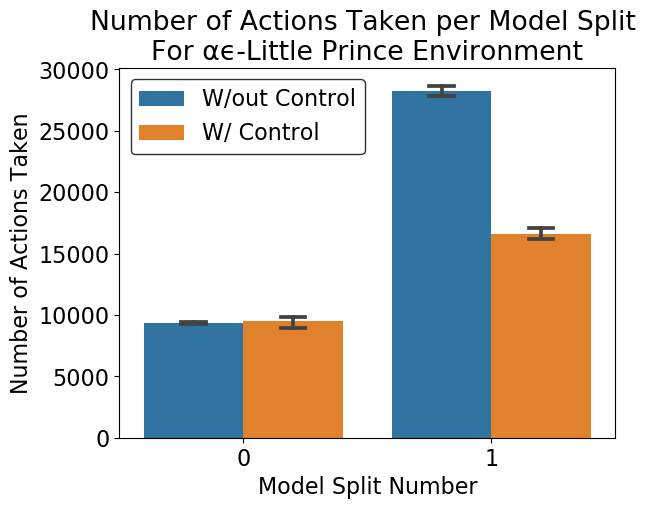
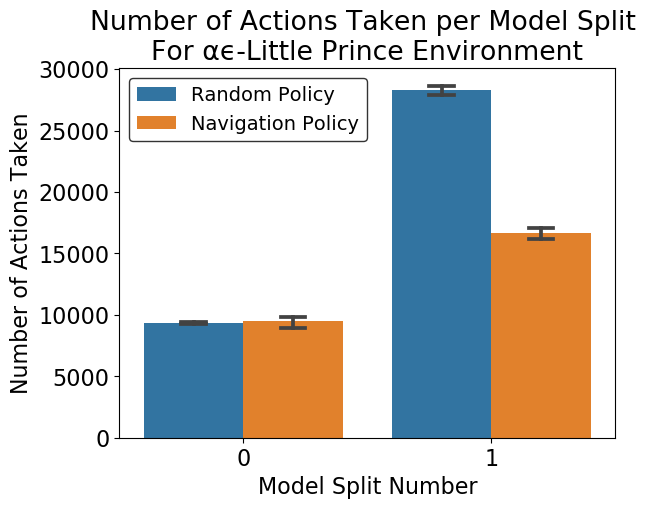
Modified the graphs for Test 2

Changed region(s): [[0.1835, 0.1473, 0.581, 0.3242], [0.0612, 0.1179, 0.1835, 0.1768], [0.6422, 0.1768, 0.7034, 0.2063]]

diff --git a/generateGraphs.py b/generateGraphs.py
@@ -193,12 +193,28 @@ def generateGraphTest2():
                     if model_num == finalModelNum:
                         data.append([model_num, iteration_num])
 
+
         v1Data = np.array(v1Data)
         v2Data = np.array(v2Data)
         v1Data_average = np.mean(v1Data, axis=0)
         v2Data_average = np.mean(v2Data, axis=0)
         v1Data_stdDev = np.std(v1Data, axis=0)
         v2Data_stdDev = np.std(v2Data, axis=0)
+
+        # import pdb; pdb.set_trace()
+        print("-----")
+        print(env_num)
+        v1_sum = np.sum(v1Data, axis=0)
+        v2_sum = np.sum(v2Data, axis=0)
+        print(v1_sum)
+        print(v2_sum)
+        v1_avg = v1_sum / 10
+        v2_avg = v2_sum / 10
+        print(v1_avg)
+        print(v2_avg)
+        print(v2_avg[1] / v1_avg[1])
+
+
 
         xData = []
         yData = []
@@ -214,7 +230,7 @@ def generateGraphTest2():
         else:
             xData = np.concatenate((v1Data[:,0], v2Data[:,0]))
             yData = np.concatenate((v1Data[:,1], v2Data[:,1]))
-            groupings = np.concatenate(((np.full(np.shape(v1Data[:,0]), "Without Control")), np.full(np.shape(v2Data[:,0]), "With Control")))
+            groupings = np.concatenate(((np.full(np.shape(v1Data[:,0]), "Random Policy")), np.full(np.shape(v2Data[:,0]), "Navigation Policy")))
 
 
         plt.rcParams.update({'font.size': 16})
@@ -230,7 +246,7 @@ def generateGraphTest2():
         xlabels = ['{:,d}'.format(x) for x in ax.get_xticks()]
         ax.set_xticklabels(xlabels)
         ax.tick_params(axis='x')
-        ldg = plt.legend()
+        ldg = plt.legend(fontsize=14)
         ldg.get_frame().set_edgecolor('black')
 
         # plt.show()
@@ -337,11 +353,11 @@ def generateGraphTest2_2(useFirstPoint,genAbsoluteError, environmentNum):
     # plt.scatter(v1Data_average[:,0], v1Data_average[:,1], label="Collins")
     if v1Data.size > 0: # Check to make sure at least one trial was successful
         print(v1Data_average.size)
-        plt.scatter(v1Data_average[:,0], v1Data_average[:,1],label="Without Control",c=colors[0])
+        plt.scatter(v1Data_average[:,0], v1Data_average[:,1],label="Random Policy",c=colors[0])
     
     # plt.scatter(v2Data_average[:,0], v2Data_average[:,1], label="BUDD")
     if v2Data.size > 0:
-        plt.scatter(v2Data_average[:,0], v2Data_average[:,1],label="With Control",c=colors[1])
+        plt.scatter(v2Data_average[:,0], v2Data_average[:,1],label="Navigation Policy",c=colors[1])
     for row_num in range(len(model_splits)):
         row = model_splits[row_num]
         color = ''
@@ -349,11 +365,11 @@ def generateGraphTest2_2(useFirstPoint,genAbsoluteError, environmentNum):
         linestyle = ''
         if row_num == 0:
             color = colors[0]
-            grouping = "Without Control"
+            grouping = "Random Policy"
             linestyle = "-"
         else:
             color = colors[1]
-            grouping = "With Control"
+            grouping = "Navigation Policy"
             linestyle = "--"
         for num in range(len(row)):
             split = model_splits[row_num][num]
@@ -569,6 +585,16 @@ def getModelGraph(env_num, SDE_Set, A_S, transitionProbs, filename):
                         rank = "sink"
                     line = '  { rank=' + rank + '; ' + '"' + str(sde_idx) + '"; }'
                 lines.append(line)
+        elif env_num == 1:
+            for sde_idx in range(len(SDE_Set)):
+                line = ""
+                if sde_idx == 3: # we'll do this one when sde_idx == 2
+                    line = '  { rank=same; "1"; "0"; }'
+                elif sde_idx == 2:
+                    line = '  { rank=same; "2"; "3"; }'
+                else:
+                    continue
+                lines.append(line)
         # elif env_num == 42:
         #     line = '  { rank=same; "0"; "1"; "2"; "3"; }'
         #     lines.append(line)
@@ -596,12 +622,12 @@ def getModelGraph(env_num, SDE_Set, A_S, transitionProbs, filename):
         lines.append("}")
 
         # now write the file
-        # with codecs.open("dotfile.dot", "w", "utf-8") as dotfile:
-        with NamedTemporaryFile("wb", delete=False) as dotfile:
+        with codecs.open("dotfile.dot", "w", "utf-8") as dotfile:
+        # with NamedTemporaryFile("wb", delete=False) as dotfile:
             dotfilename = dotfile.name
             for line in lines:
-                # dotfile.write("%s\n" % line)
-                dotfile.write(("%s\n" % line).encode("utf-8"))
+                dotfile.write("%s\n" % line)
+                # dotfile.write(("%s\n" % line).encode("utf-8"))
             dotfile.flush()
             cmd = ["dot", dotfilename, "-T", "png", "-o", filename]
             # dot dotfile.dot -T png -o temp.png
@@ -652,11 +678,11 @@ def getPercentAccurate(environmentNum):
         print("Percent Trials Correct for Version " + str(versionNum) + " : " + str(validCount/totalCount))
 
 if __name__ == "__main__":
-    # envNum = 42
+    # envNum = 1
     # envString = "Example"+str(envNum)
     # env = locals()[envString]()
     # getModelGraph(envNum, env.SDE_Set, env.A_S, env.get_true_transition_probs(), "env" + str(envNum) + "Graph.png")
-    # generateGraphTest1(False,False)
-    generateGraphTest2_2(False,False, 2)
+    generateGraphTest1(False,False)
+    # generateGraphTest2_2(False,False, 2)
     # generateGraphTest2()
     # getPercentAccurate(22)
